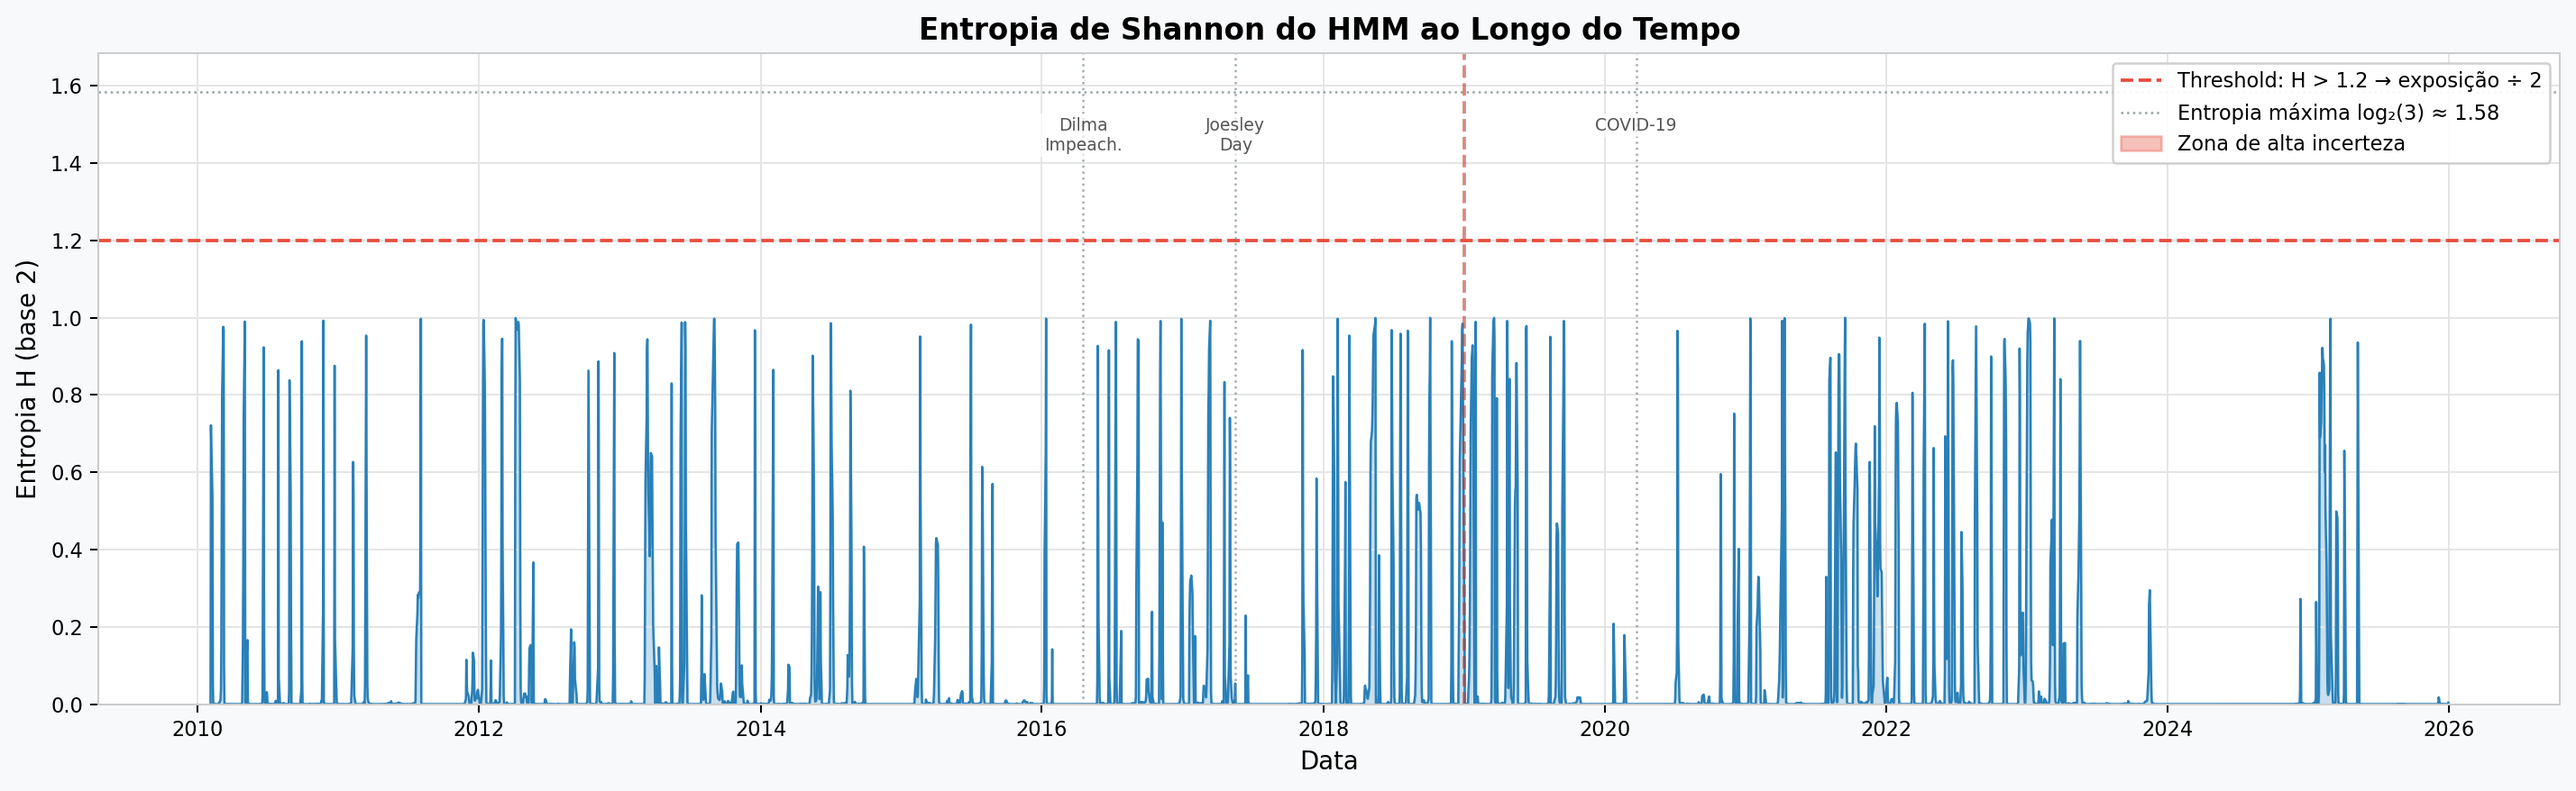
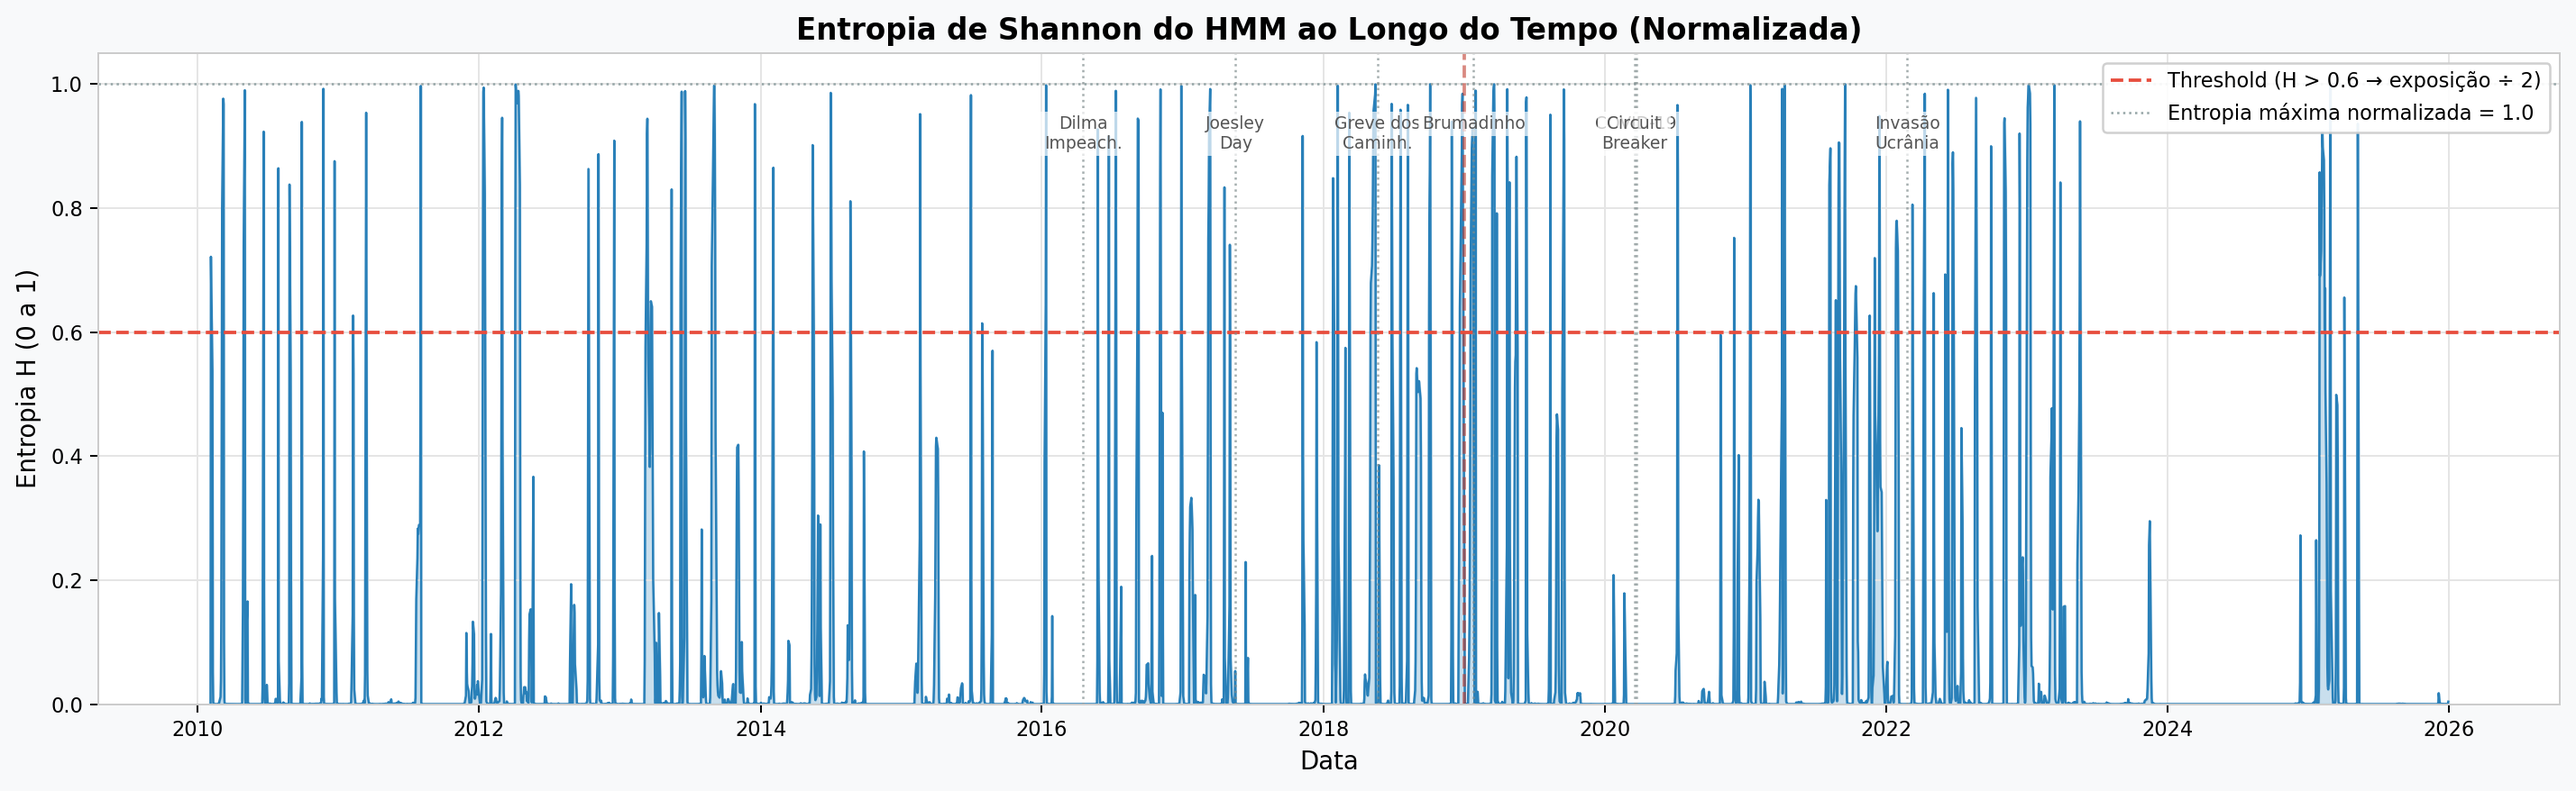
atualizações de conectividade e entropia + graficos

diff --git a/rushInsano/analise.py b/rushInsano/analise.py
@@ -1,5 +1,5 @@
 """
-analise.py — Dashboard de Análise do rushInsano
+analise.py — Dashboard de Análise do CERBERUS
 ═══════════════════════════════════════════════════════════════════════
 Roda APÓS o checkpoint.py. Importa o pipeline, executa e gera:
 
@@ -21,7 +21,7 @@ Roda APÓS o checkpoint.py. Importa o pipeline, executa e gera:
 import sys, os
 sys.path.insert(0, os.path.dirname(__file__))
 
-from checkpoint import QuantStrategyPipeline, STOP_LOSS_PCT, TRAILING_STOP_PCT
+from DIPQ import QuantStrategyPipeline, STOP_LOSS_PCT, TRAILING_STOP_PCT
 
 import numpy as np
 import pandas as pd
@@ -62,14 +62,18 @@ COR_STRAT    = "#1A6FAF"   # azul escuro
 COR_BENCH    = "#95A5A6"   # cinza
 
 CRISES = {
-    "Dilma\nImpeach.": "2016-04-17",
-    "Joesley\nDay":    "2017-05-18",
-    "COVID-19":        "2020-03-23",
+    "Dilma\nImpeach.":      "2016-04-17",
+    "Joesley\nDay":         "2017-05-18",
+    "Greve dos\nCaminh.":   "2018-05-21",
+    "Brumadinho":           "2019-01-25",
+    "COVID-19":             "2020-03-23",
+    "Circuit\nBreaker":     "2020-03-18",
+    "Invasão\nUcrânia":     "2022-02-24",
 }
 
 # ── Executar pipeline ─────────────────────────────────────────────────────────
 print("=" * 60)
-print("  rushInsano — Dashboard de Análise")
+print("  CERBERUS — Dashboard de Análise")
 print("=" * 60)
 print("\nInicializando pipeline...")
 
@@ -164,9 +168,12 @@ plt.savefig("fig1_regimes_ibov.png", dpi=180, bbox_inches='tight')
 plt.show()
 
 # ╔══════════════════════════════════════════════════════════════════════════╗
-# ║  FIG 2 — Entropia ao longo do tempo                                       ║
+# ║  FIG 2 — Entropia ao longo do tempo                                      ║
 # ╚══════════════════════════════════════════════════════════════════════════╝
 print("Gerando Figure 2 — Entropia...")
+
+# Define o novo limiar baseado na entropia normalizada (0 a 1)
+THRESHOLD_ENTROPY = 0.6 
 
 fig, ax = plt.subplots(figsize=(16, 5))
 fig.patch.set_facecolor("#F8F9FA")
@@ -176,33 +183,32 @@ ent = ibov['hmm_entropy'].dropna()
 ax.fill_between(ent.index, ent.values, alpha=0.25, color="#2980B9")
 ax.plot(ent.index, ent.values, color="#2980B9", linewidth=1.0)
 
-# Threshold de operação
-ax.axhline(1.2, color="#E74C3C", linestyle="--", linewidth=1.5,
-           label="Threshold: H > 1.2 → exposição ÷ 2")
+# Threshold de operação (Atualizado para a nova escala)
+ax.axhline(THRESHOLD_ENTROPY, color="#E74C3C", linestyle="--", linewidth=1.5,
+           label=f"Threshold (H > {THRESHOLD_ENTROPY} → exposição ÷ 2)")
 
-# Entropia máxima teórica
-ax.axhline(np.log2(3), color="#95A5A6", linestyle=":", linewidth=1.0,
-           label=f"Entropia máxima log₂(3) ≈ {np.log2(3):.2f}")
+# Entropia máxima teórica (Agora é 1.0 por conta da normalização prévia)
+ax.axhline(1.0, color="#95A5A6", linestyle=":", linewidth=1.0,
+           label="Entropia máxima normalizada = 1.0")
 
-# Crises
+# Crises (Altura do texto ajustada de 1.52 para 0.95)
 for nome, data in CRISES.items():
     d = pd.to_datetime(data)
     ax.axvline(d, color="#7F8C8D", linestyle=":", linewidth=1.0, alpha=0.7)
-    ax.text(d, 1.52, nome, fontsize=7.5, color="#555555",
+    ax.text(d, 0.95, nome, fontsize=7.5, color="#555555",
             ha='center', va='top',
             bbox=dict(fc='white', ec='none', alpha=0.7, pad=1.5))
 
-# Área de alta incerteza
-ax.fill_between(ent.index, 1.2, ent.values,
-                where=(ent.values > 1.2),
-                alpha=0.35, color="#E74C3C", label="Zona de alta incerteza")
-
+# Linha de divisão (In-sample / Out-of-sample)
 ax.axvline(split, color="#C0392B", linestyle="--", linewidth=1.5, alpha=0.6)
-ax.set_ylim(0, np.log2(3) + 0.1)
-ax.set_title("Entropia de Shannon do HMM ao Longo do Tempo")
+
+# Limites e Rótulos ajustados para a nova escala de 0 a 1
+ax.set_ylim(0, 1.05)
+ax.set_title("Entropia de Shannon do HMM ao Longo do Tempo (Normalizada)")
 ax.set_xlabel("Data")
-ax.set_ylabel("Entropia H (base 2)")
+ax.set_ylabel("Entropia H (0 a 1)")
 ax.legend(loc="upper right", framealpha=0.92)
+
 plt.tight_layout()
 plt.savefig("fig2_entropia.png", dpi=180, bbox_inches='tight')
 plt.show()
@@ -315,6 +321,16 @@ eig_s = ibov['max_eigen_value'].dropna()
 fig, ax = plt.subplots(figsize=(16, 5))
 fig.patch.set_facecolor("#F8F9FA")
 
+# --- ADIÇÃO: Fundo colorido por regime (igual à Fig 1) ---
+dates = ibov.index
+for i in range(len(dates) - 1):
+    estado = ibov['hmm_state'].iloc[i]
+    if pd.notna(estado):
+        ax.axvspan(dates[i], dates[i+1],
+                   color=cor_regime[int(estado)], alpha=0.18, linewidth=0)
+# ---------------------------------------------------------
+
+# Plota a linha e o preenchimento do autovalor máximo por cima do fundo
 ax.fill_between(eig_s.index, eig_s.values, alpha=0.18, color="#16A085")
 ax.plot(eig_s.index, eig_s.values, color="#16A085", linewidth=1.0)
 
@@ -340,10 +356,19 @@ for nome, data in CRISES.items():
 
 ax.axvline(split, color="#C0392B", linestyle="--", linewidth=1.5, alpha=0.6,
            label="Início do Teste (2019)")
+
 ax.set_title("Maior Autovalor da Rede (λ_max) — Fragilidade Sistêmica do Mercado")
 ax.set_xlabel("Data")
 ax.set_ylabel("λ_max (autovalor máximo da matriz de adjacência)")
-ax.legend(loc="upper left", framealpha=0.92)
+
+# --- ADIÇÃO: Adicionar legendas dos regimes HMM ---
+patches = [mpatches.Patch(color=cor_regime[k], alpha=0.5, label=v)
+           for k, v in label_map.items()]
+handles, labels = ax.get_legend_handles_labels()
+# Usa ncol=3 para a legenda não ficar alta demais e cobrir o gráfico
+ax.legend(handles=handles + patches, loc="upper left", framealpha=0.92, ncol=3) 
+# ---------------------------------------------------
+
 plt.tight_layout()
 plt.savefig("fig5_eigen.png", dpi=180, bbox_inches='tight')
 plt.show()
@@ -405,7 +430,7 @@ ax_dd  = fig.add_subplot(gs[1], sharex=ax_eq)
 # Equity
 ax_eq.plot(perf_df.index, perf_df['cum_strategy'],
            color=COR_STRAT, linewidth=2.0,
-           label="rushInsano (HMM Multi-Ativos)")
+           label="CERBERUS (HMM Multi-Ativos)")
 ax_eq.plot(perf_df.index, perf_df['cum_benchmark'],
            color=COR_BENCH, linewidth=1.4, linestyle="--",
            label="Buy & Hold IBOV")
@@ -427,7 +452,7 @@ ax_eq.axvline(split, color="#C0392B", linestyle="--", linewidth=1.5,
 ret_total_s = perf_df['cum_strategy'].iloc[-1] - 1
 ret_total_b = perf_df['cum_benchmark'].iloc[-1] - 1
 ax_eq.text(0.01, 0.97,
-           f"rushInsano: {ret_total_s:.1%} acumulado",
+           f"CERBERUS: {ret_total_s:.1%} acumulado",
            transform=ax_eq.transAxes, fontsize=9.5,
            va='top', color=COR_STRAT,
            bbox=dict(fc='white', ec=COR_STRAT, alpha=0.88, pad=4, lw=1.2))
@@ -438,7 +463,7 @@ ax_eq.text(0.01, 0.88,
            bbox=dict(fc='white', ec=COR_BENCH, alpha=0.88, pad=4, lw=1.2))
 
 ax_eq.set_ylabel("Retorno Acumulado (1.0 = Capital Inicial)")
-ax_eq.set_title("rushInsano vs Buy & Hold IBOV — Performance Acumulada")
+ax_eq.set_title("CERBERUS vs Buy & Hold IBOV — Performance Acumulada")
 ax_eq.legend(loc="upper left", framealpha=0.92, ncol=2)
 ax_eq.yaxis.set_major_formatter(mticker.FuncFormatter(lambda x, _: f"{x:.1f}x"))
 plt.setp(ax_eq.get_xticklabels(), visible=False)
@@ -448,7 +473,7 @@ dd_strat = (perf_df['cum_strategy'] / perf_df['cum_strategy'].cummax() - 1) * 10
 dd_bench = (perf_df['cum_benchmark'] / perf_df['cum_benchmark'].cummax() - 1) * 100
 
 ax_dd.fill_between(perf_df.index, dd_strat, 0,
-                   alpha=0.45, color=COR_STRAT, label="Drawdown rushInsano")
+                   alpha=0.45, color=COR_STRAT, label="Drawdown CERBERUS")
 ax_dd.plot(perf_df.index, dd_bench, color=COR_BENCH,
            linewidth=1.0, linestyle="--", label="Drawdown IBOV")
 ax_dd.axvline(split, color="#C0392B", linestyle="--", linewidth=1.5, alpha=0.6)
@@ -507,7 +532,7 @@ cbar = plt.colorbar(im, ax=ax, fraction=0.025, pad=0.02)
 cbar.set_label("Retorno Mensal", fontsize=10)
 cbar.ax.yaxis.set_major_formatter(mticker.PercentFormatter(xmax=1, decimals=0))
 
-ax.set_title("Retornos Mensais da Estratégia rushInsano — Calendário de Performance")
+ax.set_title("Retornos Mensais da Estratégia CERBERUS — Calendário de Performance")
 ax.set_xlabel("Mês")
 ax.set_ylabel("Ano")
 plt.tight_layout()
@@ -540,7 +565,7 @@ ax.fill_between(roll_sharpe.index, roll_sharpe.values, 0,
 
 ax.plot(roll_sharpe.index, roll_sharpe.values,
         color=COR_STRAT, linewidth=1.8,
-        label="Sharpe Móvel — rushInsano")
+        label="Sharpe Móvel — CERBERUS")
 ax.plot(roll_sharpe_b.index, roll_sharpe_b.values,
         color=COR_BENCH, linewidth=1.2, linestyle="--",
         label="Sharpe Móvel — IBOV")
@@ -584,20 +609,20 @@ x_range = np.linspace(
 ax.hist(r_b, bins=80, density=True, color=COR_BENCH, alpha=0.30,
         edgecolor='white', linewidth=0.3, label="IBOV (histograma)")
 ax.hist(r_s, bins=80, density=True, color=COR_STRAT, alpha=0.30,
-        edgecolor='white', linewidth=0.3, label="rushInsano (histograma)")
+        edgecolor='white', linewidth=0.3, label="CERBERUS (histograma)")
 
 # KDEs
 kde_s = gaussian_kde(r_s, bw_method=0.3)
 kde_b = gaussian_kde(r_b, bw_method=0.3)
 ax.plot(x_range, kde_s(x_range), color=COR_STRAT, linewidth=2.2,
-        label="rushInsano (KDE)")
+        label="CERBERUS (KDE)")
 ax.plot(x_range, kde_b(x_range), color=COR_BENCH, linewidth=2.0,
         linestyle="--", label="IBOV (KDE)")
 
 ax.axvline(0, color="#AAAAAA", linewidth=0.8, linestyle=":")
 
 # Box de estatísticas
-stats_s = (f"rushInsano\n"
+stats_s = (f"CERBERUS\n"
            f"μ = {r_s.mean():.3%}  σ = {r_s.std():.3%}\n"
            f"Kurt = {r_s.kurt():.2f}  Skew = {r_s.skew():.2f}")
 stats_b = (f"IBOV\n"
@@ -611,7 +636,7 @@ ax.text(0.02, 0.74, stats_b, transform=ax.transAxes, fontsize=8.5,
         va='top', color=COR_BENCH,
         bbox=dict(fc='white', ec=COR_BENCH, alpha=0.88, pad=5, lw=1.2))
 
-ax.set_title("Distribuição dos Retornos Diários — rushInsano vs IBOV")
+ax.set_title("Distribuição dos Retornos Diários — CERBERUS vs IBOV")
 ax.set_xlabel("Retorno Diário")
 ax.set_ylabel("Densidade")
 ax.xaxis.set_major_formatter(mticker.PercentFormatter(xmax=1, decimals=1))
@@ -624,7 +649,7 @@ plt.show()
 # ║  TABELA DE MÉTRICAS ESTENDIDAS                                            ║
 # ╚══════════════════════════════════════════════════════════════════════════╝
 print("\n" + "═" * 72)
-print("  MÉTRICAS ESTENDIDAS — rushInsano".center(72))
+print("  MÉTRICAS ESTENDIDAS — CERBERUS".center(72))
 print("═" * 72)
 
 def metricas(ret_series, equity_series, nome_periodo, nome_strat):
@@ -664,11 +689,11 @@ for periodo, df_p in [("TOTAL (2010–2025)", perf_df),
                        ("OUT-OF-SAMPLE (2019–2025)", out_s)]:
     metricas(df_p['strategy_returns'],
              df_p['cum_strategy'],
-             periodo, "rushInsano")
+             periodo, "CERBERUS")
     metricas(df_p['benchmark_returns'],
              df_p['cum_benchmark'],
              periodo, "IBOV B&H")
 
 print("\n" + "═" * 72)
-print("  Gráficos salvos: fig1 a fig10 (.png) na pasta rushInsano")
+print("  Gráficos salvos: fig1 a fig10 (.png) na pasta CERBERUS")
 print("═" * 72)

diff --git a/rushInsano/DIPQ.py b/rushInsano/DIPQ.py
@@ -15,7 +15,7 @@ from scipy.special import comb
 
 STOP_LOSS_PCT            = 0.07   # drawdown máximo desde o pico (7 %)
 TRAILING_STOP_PCT        = 0.05   # recuo do equity desde o último pico (5 %)
-THRESHOLD_net_analysis = 0.7      #usar threshold fixo e nao percentil torna a medida de densidade util
+THRESHOLD_net_analysis = 0.7
 
 class QuantStrategyPipeline:
     def __init__(self, start_date, end_date, split_date='2019-01-01'):
@@ -61,12 +61,9 @@ class QuantStrategyPipeline:
         self.ibov['vol_of_vol'] = self.ibov['volatility'].rolling(window=window).std()
         
         # --- FEATURES DOS ATIVOS (B3) ---
-        mom1 = self.b3 / self.b3.shift(21) - 1
-        mom2 = self.b3 / self.b3.shift(63) - 1
-        mom3 = self.b3 / self.b3.shift(126) - 1
-
-        self.momentum = 0.2*mom1 + 0.4*mom2 + 0.4*mom3
-        self.momentum = self.momentum.shift(1)
+        # Calculando as médias e RSI para todas as ações da B3 de uma vez usando operações vetoriais
+        self.b3_sma_fast = self.b3.rolling(window=10).mean()
+        self.b3_sma_slow = self.b3.rolling(window=50).mean()
         
         # RSI Vetorial para o DataFrame inteiro
         delta = self.b3.diff()
@@ -211,6 +208,7 @@ class QuantStrategyPipeline:
         # Cria um DataFrame temporário alinhado para jogar de volta no df principal
         valid_data = pd.concat([train_data, test_data]).copy()
         valid_data['hmm_state_raw'] = all_states
+        max_entropy = np.log2(3)
         valid_data['hmm_entropy'] = [scipy_entropy(p, base=2) for p in all_probs]
         
         # 5. Mapear os estados (0=Baixa, 1=Média, 2=Alta vol)
@@ -233,10 +231,6 @@ class QuantStrategyPipeline:
 
     def run_backtest(self, initial_capital=100000, stop_loss_pct=0.07, trailing_stop_pct=0.05):
         print("Rodando Backtest Multi-Ativos...")
-
-        last_rebalance_month = None
-
-        split_date_pd = pd.to_datetime(self.split_date)
         
         capital = initial_capital
         
@@ -246,13 +240,12 @@ class QuantStrategyPipeline:
         
         equity_curve = []
         equity_dates = []
+
+        # Calcula o percentil 80% baseado em uma janela de 1 ano (252 dias úteis)
+        self.ibov['density_rolling_80'] = self.ibov['density'].rolling(window=252).quantile(0.8)
         
         # Itera dia a dia
         for date, ibov_row in self.ibov.iterrows():
-
-            if date < split_date_pd: #evita que rode no treino
-                continue
-
             # Pula os dias que não temos os indicadores mapeados
             if pd.isna(ibov_row['hmm_state']) or date not in self.b3.index:
                 continue
@@ -261,13 +254,16 @@ class QuantStrategyPipeline:
             
             # --- 1. MODULADOR DE EXPOSIÇÃO DO MERCADO ---
             exposure_modifier = 1.0
-            if ibov_row['hmm_entropy'] > 1.2: exposure_modifier *= 0.5
+            if ibov_row['hmm_entropy'] > 0.6: exposure_modifier *= 0.5
             
             # Checa se vol_of_vol e density existem antes de checar quantil (evita erros nos primeiros dias)
             # CORREÇÃO (comentário atualizado): 'density' e 'max_eigen_value' agora estão
             # disponíveis em ibov_row após o join feito no __main__.
-            if pd.notna(ibov_row.get('density')) and ibov_row['density'] > self.ibov['density'].quantile(0.8):
-                exposure_modifier *= 0.5
+
+            density_threshold = ibov_row.get('density_rolling_80')
+            if pd.notna(ibov_row.get('density')) and pd.notna(density_threshold):
+                if ibov_row['density'] > density_threshold:
+                    exposure_modifier *= 0.5
                 
             # Estado do mercado de hoje
             regime = ibov_row['hmm_state']
@@ -299,33 +295,8 @@ class QuantStrategyPipeline:
                 if pos['qty'] == 0:
                     # Estado 0: Baixa Vol (Tendência)
                     if regime == 0:
-
-                        if date.month != last_rebalance_month: #garante que so haja rebalanceamento a cada mes
-                            last_rebalance_month = date.month
-                            # ranking do momentum no dia
-                            scores = self.momentum.loc[date].dropna()
-
-                            # preços do dia dos ativos rankeados
-                            prices_today = current_b3_prices[scores.index]
-
-                            # FILTROS IMPORTANTES
-                            valid = (
-                                (prices_today > 10) &        # evita penny stock
-                                (prices_today < 500) &       # evita preço absurdo / erro
-                                (scores != 0)
-                            )
-
-                            scores = scores[valid]
-
-                            # top 5 apenas
-                            buy_signals = list(scores.nlargest(5).index)
-
-                            current_positions = [t for t,p in positions.items() if p['qty'] > 0]
-
-                        for ticker in current_positions:
-                            if ticker not in buy_signals:
-                                capital += positions[ticker]['qty'] * current_b3_prices[ticker]
-                                positions[ticker] = {'qty':0,'entry_price':0,'highest_price':0}
+                        if self.b3_sma_fast.loc[date, ticker] > self.b3_sma_slow.loc[date, ticker]:
+                            buy_signals.append(ticker)
                             
                     # Estado 1: Média Vol (Reversão)
                     elif regime == 1:
@@ -347,7 +318,7 @@ class QuantStrategyPipeline:
                 for ticker in buy_signals:
                     if capital >= per_trade_capital:
                         price = current_b3_prices[ticker]
-                        qty = min(per_trade_capital / price, 1000) #limita quantidade por compra
+                        qty = per_trade_capital / price
                         
                         positions[ticker]['qty'] = qty
                         positions[ticker]['entry_price'] = price
